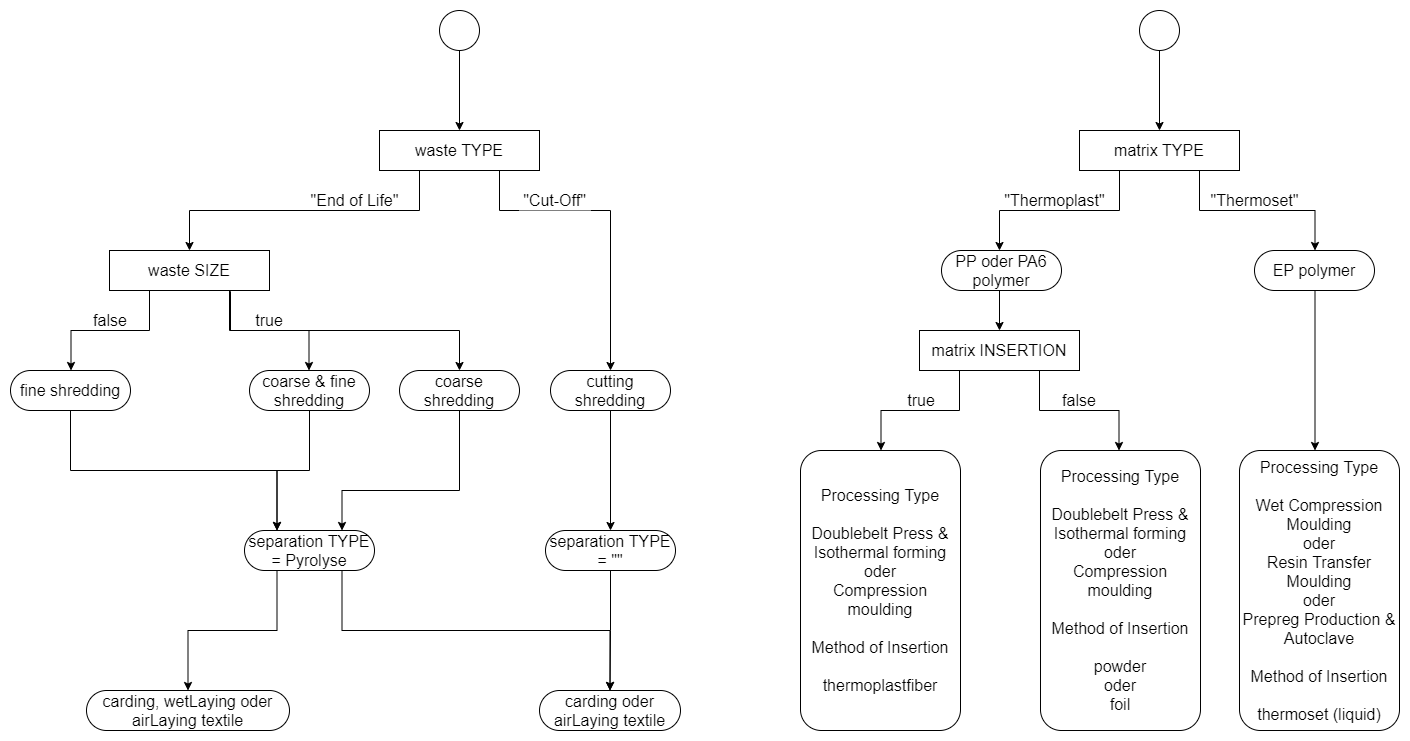
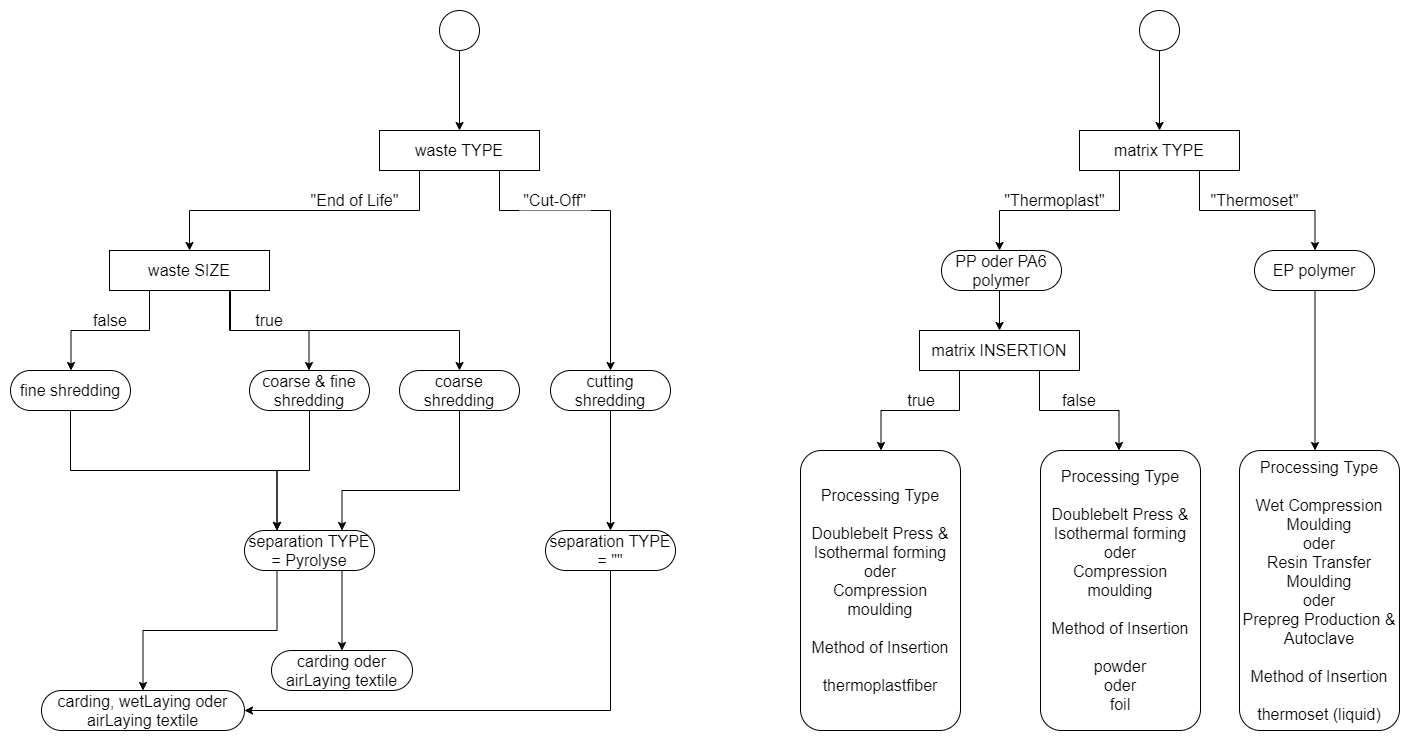
added wet-laying option to textile-type dropdown (recycling.exe v5_1 allows this value); updated the corresponding diagram.

Changed region(s): [[0.0312, 0.8691, 0.2809, 0.9933], [0.3745, 0.9312, 0.4681, 0.9933]]

diff --git a/src/components/Input_textile.vue b/src/components/Input_textile.vue
@@ -163,15 +163,21 @@
             ) {
                 this.type_options = ["Dry-laid", "Wet-laid", "Air-laid"]
             } else if(
-                shred_1_type === "Coarse" && shred_2_type === undefined && this.matrix_insertion_prop ||
+                shred_1_type === "Coarse" && shred_2_type === undefined && this.matrix_insertion_prop
+            ) {
+                this.type_options = ["Dry-laid with Thermoplastfiber", "Air-laid with Thermoplastfiber"]
+            } else if(
+                shred_1_type === "Coarse" && shred_2_type === undefined && !this.matrix_insertion_prop
+            ) {
+                this.type_options = ["Dry-laid", "Air-laid"]
+            } else if(
                 shred_1_type === undefined && shred_2_type === "Cutting" && this.matrix_insertion_prop
             ) {
-                this.type_options = ["Dry-laid with Thermoplastfiber", "Air-laid with Thermoplastfiber"] // "Wet-laid with Thermoplastfiber", in recycling.exe v4.3 ergibt error
+                this.type_options = ["Dry-laid with Thermoplastfiber", "Wet-laid with Thermoplastfiber", "Air-laid with Thermoplastfiber"] // "Wet-laid with Thermoplastfiber", in recycling.exe v4.3 ergibt error
             } else if(
-                shred_1_type === "Coarse" && shred_2_type === undefined && !this.matrix_insertion_prop ||
                 shred_1_type === undefined && shred_2_type === "Cutting" && !this.matrix_insertion_prop
             ) {
-                this.type_options = ["Dry-laid", "Air-laid"] // Wet-laid, in recycling.exe v4.3 ergibt error
+                this.type_options = ["Dry-laid", "Wet-laid", "Air-laid"] // Wet-laid, in recycling.exe v4.3 ergibt error
             }
 
             if(this.textile_type === "Dry-laid" || this.textile_type === "Dry-laid with Thermoplastfiber") {
